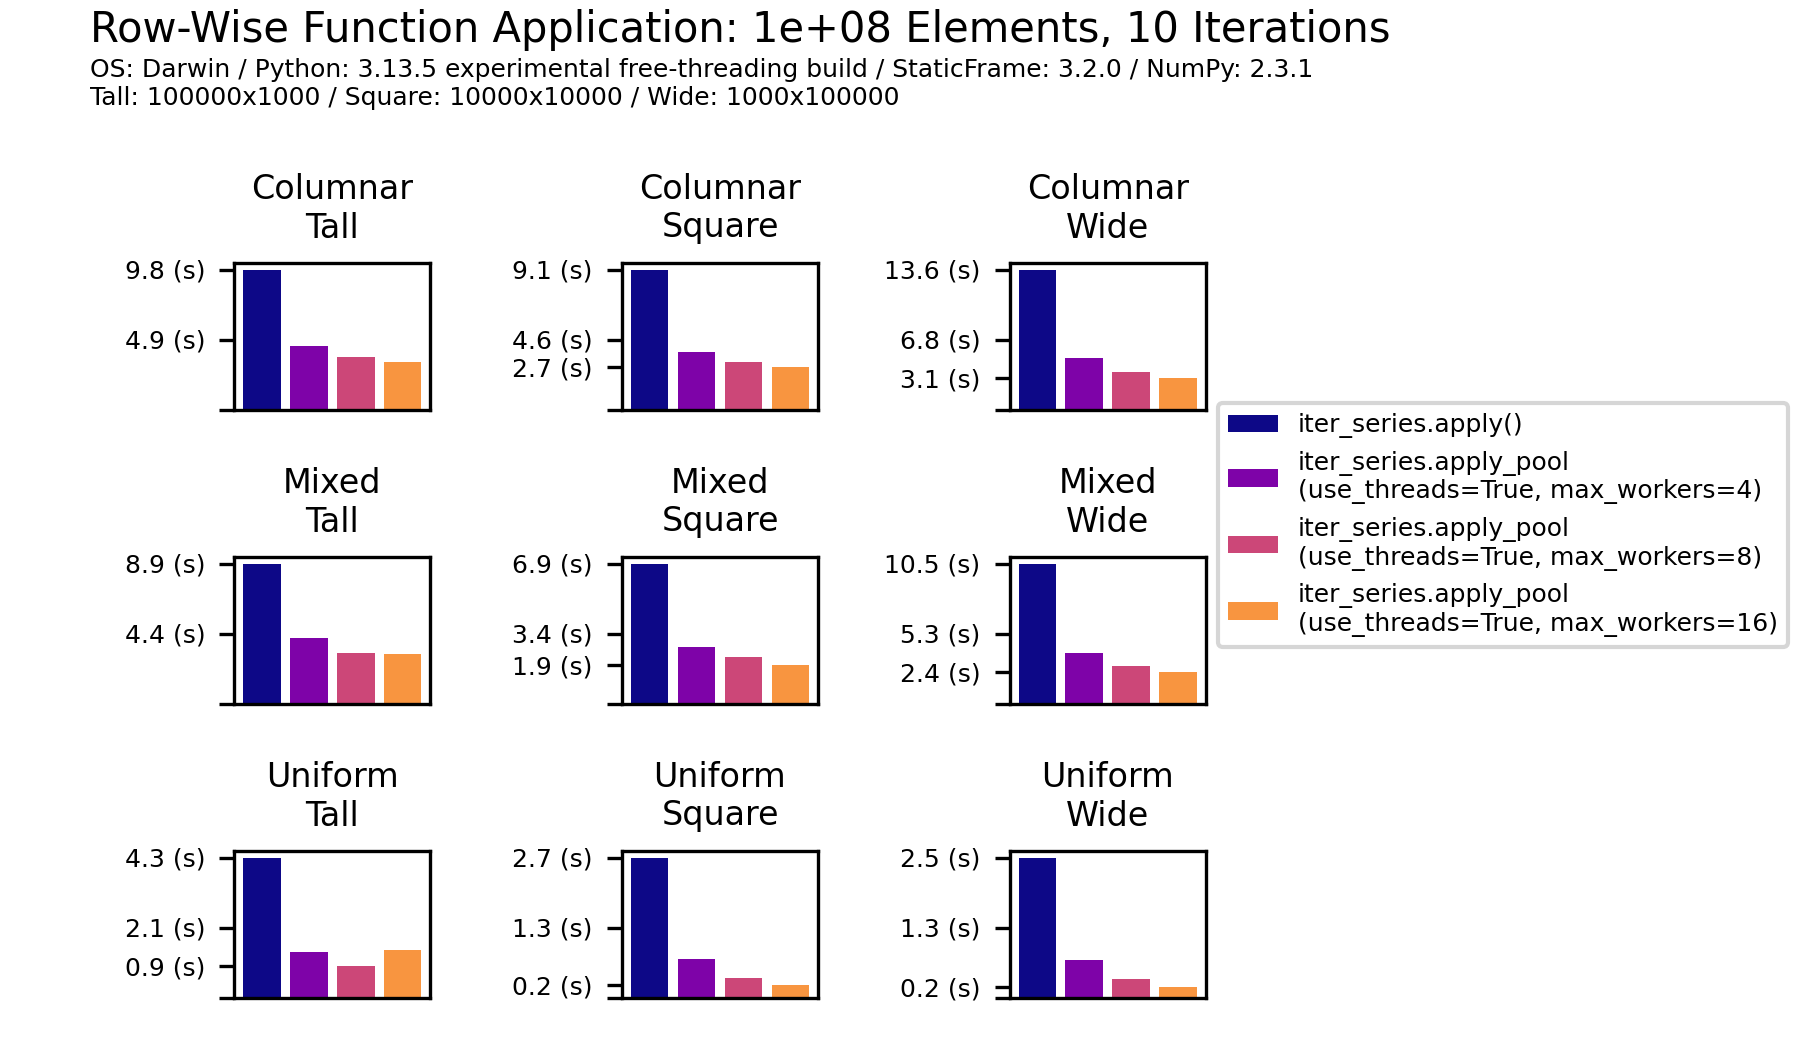
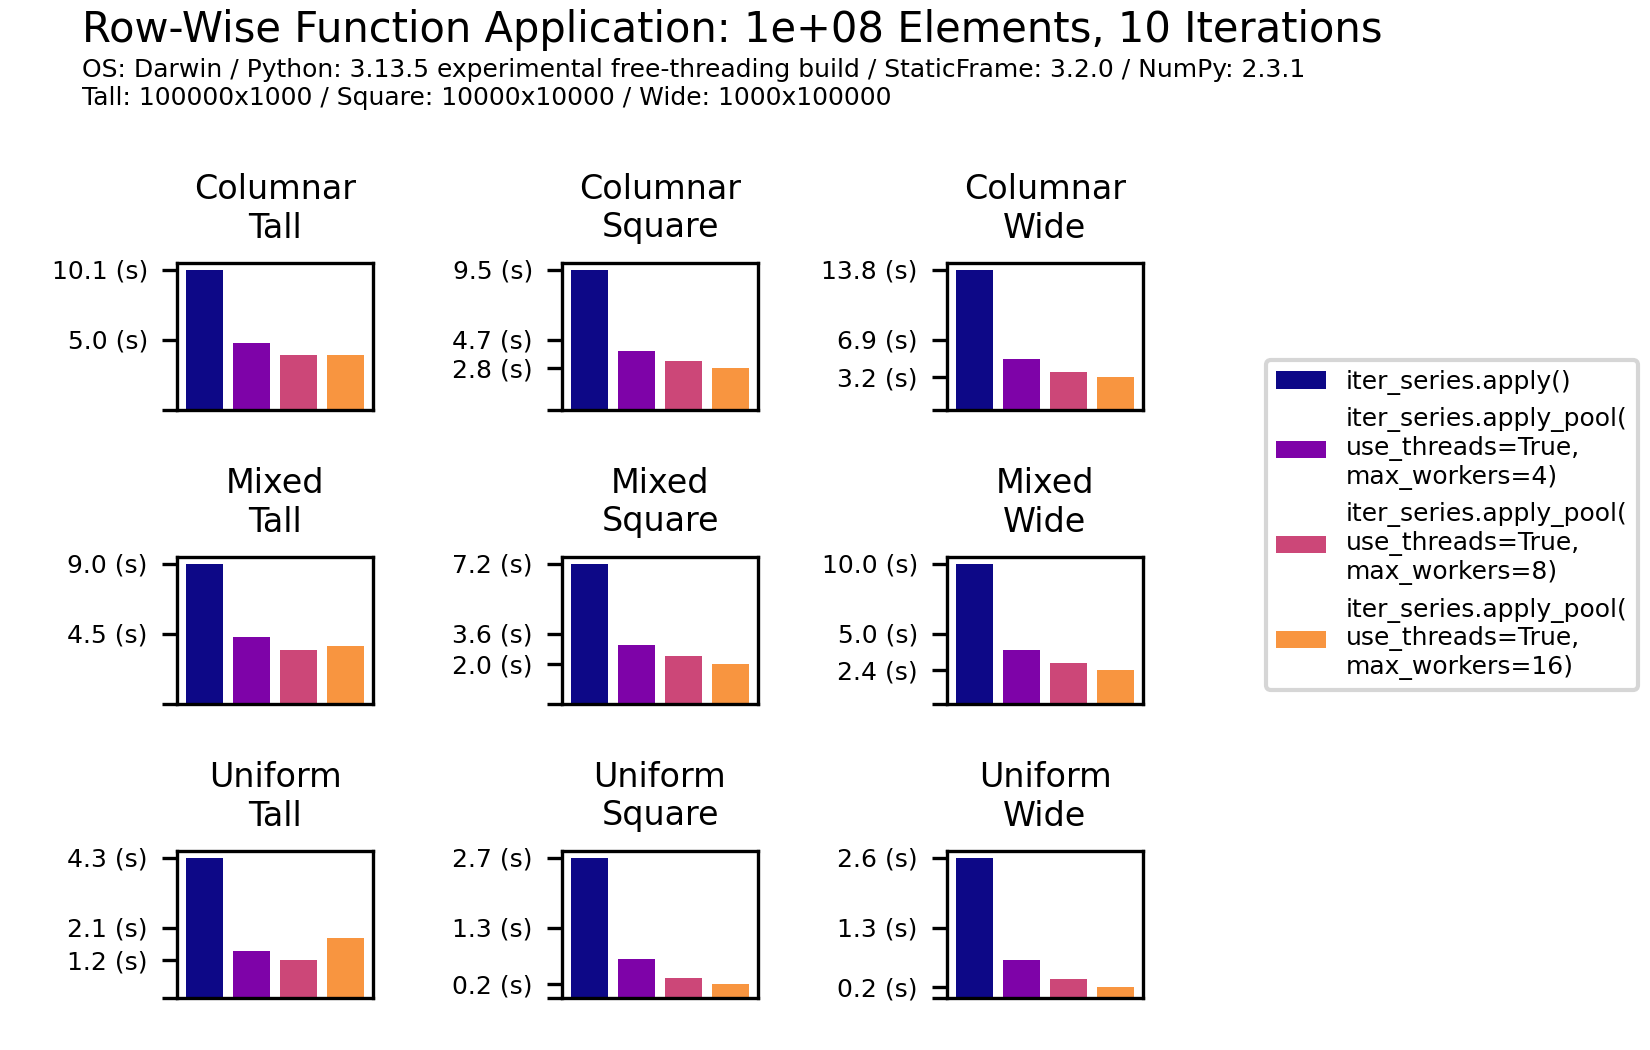
progress

diff --git a/doc/source/articles/freethread.py b/doc/source/articles/freethread.py
@@ -119,14 +119,6 @@ FF_square_columnar = f's({scale(1_000)},{scale(1_000)})|v({VALUES_COLUMNAR})|i(I
 
 #-------------------------------------------------------------------------------
 
-# def seconds_to_display(seconds: float) -> str:
-#     seconds /= NUMBER
-#     if seconds < 1e-4:
-#         return f'{seconds * 1e6: .1f} (µs)'
-#     if seconds < 1e-1:
-#         return f'{seconds * 1e3: .1f} (ms)'
-#     return f'{seconds: .1f} (s)'
-
 def seconds_to_display(seconds: float, number: int) -> str:
     seconds /= number
     if seconds < 1e-4:
@@ -152,15 +144,15 @@ def plot_performance(frame: sf.Frame,
         # IterArrayA_Threads_Workers16.__name__: 'iter_array(use_threads=True,\nmax_workers=16)',
         IterSeriesA_Single.__name__: 'iter_series.apply()',
 
-        IterSeriesA_Process_Workers2.__name__: 'iter_series.apply_pool(\nuse_threads=False, max_workers=2)',
-        IterSeriesA_Process_Workers4.__name__: 'iter_series.apply_pool(\nuse_threads=False, max_workers=4)',
-        IterSeriesA_Process_Workers8.__name__: 'iter_series.apply_pool(\nuse_threads=False, max_workers=8)',
-        IterSeriesA_Process_Workers16.__name__: 'iter_series.apply_pool(\nuse_threads=False, max_workers=16)',
+        IterSeriesA_Process_Workers2.__name__: 'iter_series.apply_pool(\nuse_threads=False,\nmax_workers=2)',
+        IterSeriesA_Process_Workers4.__name__: 'iter_series.apply_pool(\nuse_threads=False,\nmax_workers=4)',
+        IterSeriesA_Process_Workers8.__name__: 'iter_series.apply_pool(\nuse_threads=False,\nmax_workers=8)',
+        IterSeriesA_Process_Workers16.__name__: 'iter_series.apply_pool(\nuse_threads=False,\nmax_workers=16)',
 
-        IterSeriesA_Threads_Workers2.__name__: 'iter_series.apply_pool\n(use_threads=True, max_workers=2)',
-        IterSeriesA_Threads_Workers4.__name__: 'iter_series.apply_pool\n(use_threads=True, max_workers=4)',
-        IterSeriesA_Threads_Workers8.__name__: 'iter_series.apply_pool\n(use_threads=True, max_workers=8)',
-        IterSeriesA_Threads_Workers16.__name__: 'iter_series.apply_pool\n(use_threads=True, max_workers=16)',
+        IterSeriesA_Threads_Workers2.__name__: 'iter_series.apply_pool(\nuse_threads=True,\nmax_workers=2)',
+        IterSeriesA_Threads_Workers4.__name__: 'iter_series.apply_pool(\nuse_threads=True,\nmax_workers=4)',
+        IterSeriesA_Threads_Workers8.__name__: 'iter_series.apply_pool(\nuse_threads=True,\nmax_workers=8)',
+        IterSeriesA_Threads_Workers16.__name__: 'iter_series.apply_pool(\nuse_threads=True,\nmax_workers=16)',
     }
 
     name_order = {
@@ -229,7 +221,7 @@ def plot_performance(frame: sf.Frame,
                     labelbottom=False,
                     )
 
-    fig.set_size_inches(6, 3.5) # width, height
+    fig.set_size_inches(5.5, 3.5) # width, height
     fig.legend(post, names_display, loc='center right', fontsize=6)
     # horizontal, vertical
     count = ff.parse(FF_tall_uniform).size
@@ -247,7 +239,7 @@ def plot_performance(frame: sf.Frame,
             bottom=0.05,
             right=0.75,
             top=0.75,
-            wspace=-0.2, # width
+            wspace=0, # width
             hspace=1,
             )
     # plt.rcParams.update({'font.size': 22})
@@ -293,7 +285,6 @@ CLS_READ = (
     # IterSeriesA_Process_Workers8,
     # IterSeriesA_Process_Workers16,
 
-    # IterSeriesA_Threads_Workers2,
     IterSeriesA_Threads_Workers4,
     IterSeriesA_Threads_Workers8,
     IterSeriesA_Threads_Workers16,

diff --git a/doc/source/articles/freethread.md b/doc/source/articles/freethread.md
@@ -1,7 +1,7 @@
 
 # The Extraordinary Performance Now Possible with Immutable DataFrames in Free-Threaded Python
 
-### How StaticFrame and Python 3.13t unlock dramatic multi-threaded processing improvements
+### How StaticFrame and Python 3.13t unlock thread-based concurrency
 
 <!--
 The Extraordinary Performance Now Possible Processing Immutable DataFrames in Free-Threaded Python
@@ -9,16 +9,15 @@ Double DataFrame Row Processing Performance with Free-Threaded Python
 Free-Threaded Python with Immutable DataFrames Deliver Significant Performance Improvements
 -->
 
+Applying a function to each row of a DataFrame is a common operation. Such applications are embarrassingly parallelizable: each row can be processed independently. With a multi-core CPU, many rows can be processed at once.
 
-Applying a function to each row of a DataFrame is a common operation. Such processing is embarrassingly parallelizable: with multi-core CPUs, each row can be processed independently, in parallel.
-
-Until recently, exploiting this opportunity was not possible with Python. Multi-threaded function application is throttled by the Global Interpreter Lock (GIL). Alternatively, multi-processed function application, while effective when the unit of work large, is inefficient in many common applications. Subprocess interpreter overhead, as well as the cost of copying data into each subprocesses, can overwhelm performance benefits.
+Until recently, exploiting this opportunity was not possible with Python. Multi-threaded function application, as a CPU-bound problem, was throttled by the Global Interpreter Lock (GIL).
 
 Python now offers a solution: with the new, "experimental free-threading build" of Python 3.13, true multi-threaded concurrency of CPU-bound operations is possible.
 
-The performance benefits are extraordinary. [StaticFrame](https://github.com/static-frame/static-frame), leveraging free-threaded Python, can process a DataFrame in less than half the time of single-threaded processing.
+The performance benefits are extraordinary. Leveraging free-threaded Python, [StaticFrame](https://github.com/static-frame/static-frame) can process a DataFrame in less than half the time of single-threaded processing.
 
-For example, when using Python 3.13t (the "t" denotes the free-threaded variant) to process a 1000 by 1000 `Frame` of uniform integers, the duration falls from 21.3 ms to 7.89 ms:
+For example, when using Python 3.13t (the "t" denotes the free-threaded variant) to process a square DataFrame of one-million integers, the duration falls from 21.3 ms to 7.89 ms:
 
 ```python
 # Python 3.13.5 experimental free-threading build (main, Jun 11 2025, 15:36:57) [Clang 16.0.0 (clang-1600.0.26.6)] on darwin
@@ -34,11 +33,11 @@ For example, when using Python 3.13t (the "t" denotes the free-threaded variant)
 7.89 ms ± 60.1 μs per loop (mean ± std. dev. of 7 runs, 100 loops each)
 ```
 
-Row-wise function application in StaticFrame uses the `iter_series(axis=1)` interface followed by either `apply()` (for single-threaded application) or `apply_pool` for multi-threaded (where `use_threads=True`) or multi-processed application.
+Row-wise function application in StaticFrame uses the `iter_series(axis=1)` interface followed by either `apply()` (for single-threaded application) or `apply_pool` for multi-threaded (`use_threads=True`) or multi-processed (`use_threads=False`) application.
 
-The benefits of using free-threaded Python are consistent across a wide range of DataFrame shapes and compositions, in both MacOS and Linux, and the out-performance scales with size.
+The benefits of using free-threaded Python are robust: the outperformance is consistent across a wide range of DataFrame shapes and compositions, is proportional in both MacOS and Linux, and positively scales with DataFrame size.
 
-When using standard Python bound by the GIL, multi-threaded processing of CPU-bound processes often degrades performance. As shown below, the same operation goes from 17.7 ms with a single thread to almost 40 ms with multi-threading:
+When using standard Python with the GIL enabled, multi-threaded processing of CPU-bound processes often degrades performance. As shown below, the duration of the same operation in standard Python increases from 17.7 ms with a single thread to almost 40 ms with multi-threading:
 
 ```python
 # Python 3.13.5 (main, Jun 11 2025, 15:36:57) [Clang 16.0.0 (clang-1600.0.26.6)]
@@ -54,51 +53,54 @@ When using standard Python bound by the GIL, multi-threaded processing of CPU-bo
 39.9 ms ± 354 µs per loop (mean ± std. dev. of 7 runs, 10 loops each)
 ```
 
-There are trade-offs: as apparent in these examples, single-threaded processing is slower on 3.13t (21.3 ms compared to 17.7 ms). There is known performance overhead in free-threaded Python; this is an active area of CPython development and improvements are expected in 3.14t and beyond.
+There are trade-offs: as apparent in these examples, single-threaded processing is slower on 3.13t (21.3 ms on 3.13t compared to 17.7 ms on 3.13). Free-threaded Python, in general, incurs performance overhead. This is an active area of CPython development and improvements are expected in 3.14t and beyond.
 
-Further, while many C-extension packages like NumPy are already offering pre-compiled binary wheels for 3.13t, the risk of thread contention or data races still exist. StaticFrame's immutable data model removes many of these concerns. Now that all core dependencies have 3.13t wheels available, StaticFrame 3.2 is ready for free-threaded Python.
-
-<!-- StaticFrame has long leveraged immutable NumPy arrays, as well as the standard library `ThreadPoolExecutor` interfaces;  -->
+Further, while many C-extension packages like NumPy offer pre-compiled binary wheels for 3.13t, the risk of thread contention or data races still exist. StaticFrame's immutable data model removes many of these concerns. Now that all core dependencies have 3.13t wheels available, StaticFrame 3.2 is ready for free-threaded Python.
 
 
 ## Extended DataFrame Performance Tests
 
-Evaluating performance characteristics of a complex data structure like a DataFrame requires multiple tests. The following performance tests perform row-wise function application on nine different DataFrame types, testing all combinations of three different shapes and three different levels of type homogeneity. For a million (1e6) elements, three shapes are tested: tall (10,000 by 100), square (1,000 by 1,000), and wide (100 by 10,0000). To vary type homogeneity, three categories of synthetic data are defined: columnar (no adjacent columns have the same type), mixed (groups of four adjacent columns share the same type), and uniform (all columns are the same type). StaticFrame permits adjacent columns of the same type to be represented by two-dimensional NumPy arrays, reducing the cost of forming rows.
+Evaluating performance characteristics of a complex data structure like a DataFrame requires multiple tests. The following performance test panels perform row-wise function application on nine different DataFrame types, testing all combinations of three shapes and three levels of type homogeneity.
 
-The same function as used above, where even numbers are identified and then summed, is used here: `lambda s: s.loc[(s % 2) == 0].sum()`. While a more efficient implementation is possible using the NumPy array directly, this function better replicates common applications where many intermediate `Series` are created.
+For a fixed number of elements (1 million), three shapes are tested: tall (10,000 by 100), square (1,000 by 1,000), and wide (100 by 10,0000). To vary type homogeneity, three categories of synthetic data are defined: columnar (no adjacent columns have the same type), mixed (groups of four adjacent columns share the same type), and uniform (all columns are the same type). StaticFrame permits adjacent columns of the same type to be represented by two-dimensional NumPy arrays, reducing the costs of column transversal and row formation. At the uniform extreme, an entire DataFrame can be represented by one two-dimensional array.
 
-Figure legends make clear configuration variations: when `use_threads=True`, multi-threading is used, when `use_threads=False`, multi-processing is used. As StaticFrame uses the `ThreadPoolExecutor` and `ProcessPoolExecutor` interfaces, the `max_workers` parameter defines the maximum number of threads or processes used. A `chunksize` parameter is also available but not varied in this study.
+The same function as used above, where even numbers are identified and then summed, is used here: `lambda s: s.loc[(s % 2) == 0].sum()`. While a more efficient implementation is possible using NumPy directly, this function approximates common applications where many intermediate `Series` are created.
 
-### Multi-threaded Function Application with Python 3.13t
+Figure legends document concurrency configuration: when `use_threads=True`, multi-threading is used, when `use_threads=False`, multi-processing is used. As StaticFrame uses the `ThreadPoolExecutor` and `ProcessPoolExecutor` interfaces, the `max_workers` parameter defines the maximum number of threads or processes used. A `chunksize` parameter is also available but not varied in this study.
 
-As shown below, the performance benefits of multi-threaded processing in 3.13t are consistent across all DataFrame types tested: processing time is reduced at least by half. The optimal number of threads (the `max_workers` parameter) is smaller for tall versus wide DataFrames, presumably because the smaller rows are processed faster and do not componsate for additional thread overhead. The best out-performance is almost an order-of-magnitude improvement, from 26.4 ms to 3.5 ms, with a uniform wide DataFrame.
+
+### Multi-Threaded Function Application with Python 3.13t
+
+As shown below, the performance benefits of multi-threaded processing in 3.13t are consistent across all DataFrame types tested: processing time is reduced at least by half. The optimal number of threads (the `max_workers` parameter) is smaller for tall DataFrames: as smaller rows are processed faster, they do not compensate for additional thread overhead. The best outperformance, with a uniform wide DataFrame, is almost an order-of-magnitude improvement, from 26.4 ms to 3.5 ms.
 
 ![Multi-threaded (3.13t, 1e6, MacOS)](https://raw.githubusercontent.com/static-frame/static-frame/1083/free-thread-perf/doc/source/articles/freethread/threads-ftp-1e6-macos.png)
 
 
-Scaling to DataFrames of 100 million elements (1e8), out-performance improves modestly.
+Scaling to DataFrames of 100 million elements (1e8), outperformance modestly improves.
 
 ![Multi-threaded (3.13t, 1e8, MacOS)](https://raw.githubusercontent.com/static-frame/static-frame/1083/free-thread-perf/doc/source/articles/freethread/threads-ftp-1e8-macos.png)
 
 
-Multi-threading and processing overhead can vary greatly between platforms. In all cases, the out-performance of using free-threaded Python was consistent between MacOS and Linux, though MacOS did show marginally greater benefits. The processing of 100 million elements on Linux shows similar relative performance:
+The overhead of multi-threading can vary greatly between platforms. In all cases, the outperformance of using free-threaded Python was proportionally consistent between MacOS and Linux, though MacOS did show marginally greater benefits. The processing of 100 million elements on Linux shows similar relative outperformance:
 
 ![Multi-threaded (3.13t, 1e8, Linux)](https://raw.githubusercontent.com/static-frame/static-frame/1083/free-thread-perf/doc/source/articles/freethread/threads-ftp-1e8-linux.png)
 
 
 
-### Multi-threaded Function Application with Python 3.13
+### Multi-Threaded Function Application with Python 3.13
 
-Prior to free-threaded Python, CPU-bound concurrency with threads resulted in degraded performance. This is made clear below, where the same tests are conducted in standard Python 3.13. The one exception where performance is not degraded is again wit uniform wide DataFrames: the per row extraction cost is fast enough to still deliver a benefit.
+Prior to free-threaded Python, CPU-bound concurrency with threads resulted in degraded performance. This is made clear below, where the same tests are conducted in standard Python 3.13.
+
+<!-- The one exception where performance is not degraded is again wit uniform wide DataFrames: the per row extraction cost is fast enough to still deliver a benefit. -->
 
 ![Multi-threaded (3.13, 1e8, Linux)](https://raw.githubusercontent.com/static-frame/static-frame/1083/free-thread-perf/doc/source/articles/freethread/threads-np-1e6-linux.png)
 
 
-### Multi-processed Function Application with Python 3.13
+### Multi-Processed Function Application with Python 3.13
 
-Prior to free-threaded Python, multi-processing was the only option for CPU-bound concurrency. However, as mentioned above, multi-processing only delivered benefits if the amount of per-process work was substantial enough to offset the high cost of the per-process interpreter and copying data between processes.
+Prior to free-threaded Python, multi-processing was the only option for CPU-bound concurrency. Multi-processing, however, only delivered benefits if the amount of per-process work was sufficient to offset the high cost of the per-process interpreter and copying data between processes.
 
-As shown here, multi-processing row-wise function application degrades performance. Each unit of work is too small to make up for multi-processing overhead.
+As shown here, multi-processing row-wise function application significantly degrades performance. Each unit of work is too small to make up for multi-processing overhead.
 
 ![Multi-processed (3.13, 1e6, MacOS)](https://raw.githubusercontent.com/static-frame/static-frame/1083/free-thread-perf/doc/source/articles/freethread/process-np-1e6-macos.png)
 
@@ -115,11 +117,11 @@ While it is not certain when free-threaded Python will become the default, it is
 
 ##  Conclusion
 
-Row-wise function application is just the beginning: group-by operations, windowed function application, and many other operations on immutable DataFrames are similarly embarrassingly parallelizable and very likely to show similar benefits.
+Row-wise function application is just the beginning: group-by operations, windowed function application, and many other operations on immutable DataFrames are similarly embarrassingly parallelizable and will very likely to show similar benefits.
 
-The work to make CPython faster has had success: some state that Python 3.14 is 20% to 40% faster than Python 3.10, those performance benefits have been realized for many working with DataFrames, where performance is largely bound within C-extensions (be it NumPy, Arrow, or other libraries). As shown here, free-threaded Python permits more, from 50% to 90% reduction in time. The combined results of these improvements will be significant.
+The work to make CPython faster has had success: Python 3.14 is said to be 20% to 40% faster than Python 3.10. Unfortunately, those performance benefits have not been realized for many working with DataFrames, where performance is largely bound within C-extensions (be it NumPy, Arrow, or other libraries).
 
-
+As shown here, free-threaded Python permits efficiently running parallel Python or C-extension bound operations in low-cost, memory efficient threads, offering a 50 to 90-percent reduction in processing time. We can look forward to free-threaded Python becoming the default implementation.
 
 
 <!-- Built on an immutable data model, already exposing interfaces for parallel function application, and now offering free-threaded compatible wheel dependencies, StaticFrame is ready now to take advantage of concurrency. -->
